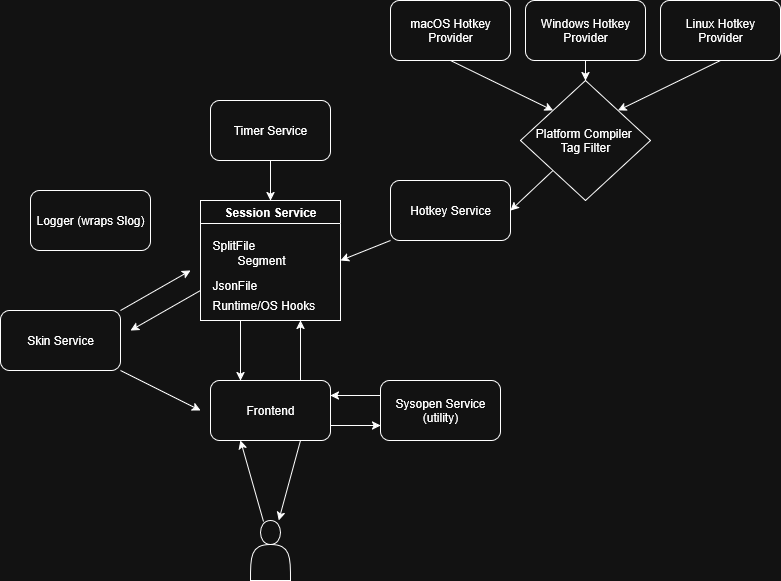
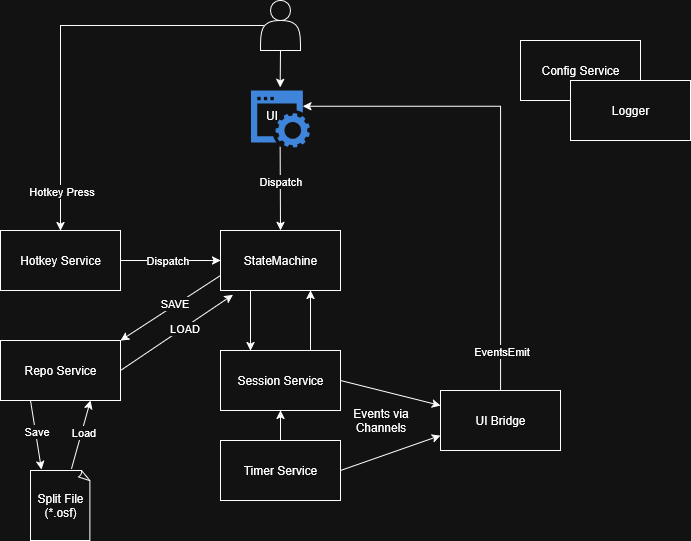
Updated documentation and architecture diagrams (#57)

diff --git a/docs/architecture.md b/docs/architecture.md
@@ -1,161 +1,112 @@
 # Architecture
 
-[Common Terms](#common-terms) - [Frontend](#frontend-react) - [Session Service](#session-service) - [Hotkey System](#hotkey-serviceproviders) - [Timer](#timer)
+[Common Terms](#common-terms) • [Frontend (React)](#frontend-react) • [Session Service](#session-service) • [Hotkey System](#hotkey-system) • [Timer](#timer)
 
 ---
 
-<img width="500" src="images/osa.png" alt="architecture" />
+<img width="500" src="images/osa.png" alt="architecture diagram" />
 
 ---
 
-### Common Terms
-* Session
-  * Primary user interface with underlying system
-  * Manages user input via exported Go functions in SessionService
-  * Keep up with the loaded split file, timer, and hotkey bindings
-  * Contains:
-    * Loaded split file
-    * Current Segment
-    * Timer Service
-    * Hotkey Service
-* Split File
-  * Primary data store for a user to store per-game/category data
-  * Saved as JSON (with extension *.osf)
-  * Contains:
-    * Game Name
-    * Game Category
-    * Number of Attempts
-    * List of Segments
-* Segment
-  * A part of a run that comprises a speedrun.
-  * Contains:
-    * ID 
-    * Segment Name (e.g. "Level 1")
-    * Segment Best Time
-    * Segment Average Time
+## Concepts
 
-#### Payloads
-All of these have "payloads" which are just exported versions that are sent to the
-frontend/filesystem and are generated with the `.getPayload()` method of the given struct.
+### State Machine
+- Manages the overall state of the program.  Defined in `statemachine` package, along with specific states
+- Exposes the `Dispatch` method receiver which is the primary way the frontend communicates to the backend
+  - `Dispatch` takes a `Command` and a `Payload`. `Payload` can be null, and the contents depends on the command and current state
 
-If you need to send or retrieve data from the frontend, you'll do it via these Payloads, never the actual struct internals themselves,
-they are not exported and therefore unavailable to the frontend.
+### Session
+- Manages:
+  - Loaded split file
+  - Current segment
+  - Timer service
+  - Hotkey service
+  - Has a sub-state machine that tracks the status of a run (Idle, Running, Paused, Finished)
 
-For example, if my frontend wants to load and edit a split file, it'll call the `LoadSplitFile`
-typescript method generated by Wails. Go will then load the splitfile, create a payload representing it with .getPayload(),
-and then send that payload to the typescript system.
+### DTO/Domain
+- Domain models are defined in the `session` package and is what the application works against
+- `dto` package is used to define the "on-disk" shape of the domain models with serializable data types
+  - `dto` types are used to send data both to the frontend, and to the repository for file storage
+- `repo/adapters` is used to translate between domain models and dto models
+- `repo` provides the actual reading and writing of bytes to and from `dto` models
 
-Once edits are made to the payload, it will send it back via the `UpdateSplitFile` typescript method
-with the modified payload as the parameter.  The Go backend will then take that payload, read it, and apply
-changes to its underlying internally loaded split file.  The internals are never directly manipulated by
-typescript, they are not exported members of the structs.
+### UI Bridge
+- `bridge` package listens for updates from the session service and timer service, and communicates them to
+the frontend via EventsEmit
 
-The method binding from Go to Typescript is covered below.
+## Frontend (React)
+- A standard **React + TypeScript** app, styled via CSS skins.
+- Communicates with the backend via the `Dispatch` bound method provided by the state machine
+- **Event-based communication**
+  - Backend emits events via `runtime.EventsEmit`.
+  - Frontend subscribes with `EventsOn`, which returns an unsubscribe function.
+    - `state:enter` sent by the statemachine to inform App.tsx of state changes along with any data needed by the frontend for that state
+    - `session:update` sent by the session service to inform the frontend of relevant run and state data.
+      - notably it's sent when the user finishes a segment and executes Split() to inform the split list that a segment is complete
+    - `timer:update` sent by the timer service to provide multiple frontend components with the current run time 
 
-### Frontend (React)
-Users interact with the frontend React system.  This works essentially like any other React application with tsx/ts files powering it.
-If you know how to write a React application, the code is exactly the same.
+## Data Management and Models
+### Split File (`*.osf`)
+- The **main data store** for a run.
+- JSON format, versioned for stability.
+- Contains:
+  - Game name
+  - Category
+  - Attempt count
+  - List of segments
+  - Segment statistics (PB, golds, averages, sum-of-bests)
+  - Collection of runs
 
-Communication with the backend should always flow through the Session Service unless there is a compelling reason to bypass it.  This single source
-I/O between frontend and backend should remain as simple as possible, hiding as much complexity as possible in the backend services.
+### Segment
+- A single part of a run (e.g. `"Level 1"`).
+- Contains:
+  - Unique ID
+  - Name
+  - Best time (gold)
+  - Average time
 
-Communication with the session service can be done imperatively via Javascript bindings, or event based via the `EventsOn` API generated by Wails.
-Wails will generate a Javascript function for every Exported (public, starts with capital letter) Go function in any struct passed into the 
-`Options.App -> Bind` member slice passed into Wails.Run in `main.go`; it will also generate any TypeScript types needed to call the methods 
-it generates in frontend/Wails/go/models.ts.  This method will return a Promise<Go Return Type>, so await it or chain it as needed.    
+### Split
+- Information about a completed Segment
+- Contains:
+  - Unique ID
+  - Time specified segment was completed in
+  - Cumulative time for run at time of split
 
-#### Binding Example
-```go
+### Run
+- Collection of splits
+---
 
-// main.go
-type Test struct {
-  ctx context.Context
-}
-func (t *Test) HelloWorld() (string, error) { return "Hello World!", nil }
-func (t *Test) startup(ctx context.Context) {
-  // If your binding needs to work with Wails platform (e.g. Open a Save File Dialog)
-  // you need to have a startup method that takes a context.Context, and call it in the OnStartup
-  // of options.App below.  This test wouldn't need it, but I'll put it here for completeness sake
-  t.ctx = ctx
-}
 
-// Creating the test struct and putting it bind will cause Wails to generate a typescript function HelloWorld that returns Promise<string>
-// if the second return is an error type and is not null, the Promise will fail and you can catch it with .catch() on the javascript side
-t := &Test{}
-err := wails.Run(&options.App{
-    OnStartup: func(ctx context.Context) {
-        t.startup(ctx)
-    },
-    Bind: []interface{}{
-        t
-    },
-})
-
-```
-```typescript
-// frontend/src/test.ts
-import { HelloWorld } from "../wailsjs/go/main/test";
-
-export function Test() {
-  useEffect(() => {
-    (async() => {
-      await HelloWorld().then(s => console.log(s)).catch(e=> console.log(e));
-    })
-  })
-}
-```
-#### Event based communication
-The Go backend can also call runtime.EventsEmit to send events to the frontend over a websocket.  You subscribe to these events with the EventsOn method
-provided by Wails.  EventsOn returns a function that unsubscribes to the event.
-
-#### Event Example
-```go
-func HelloWorldEvent(ctx context.Context) {
-  // "session.helloworld" is arbitrary, but <module>:<event> seems to be a standard practice.
-  // The second argument will be serialized to JSON and sent over the websocket.
-  // SessionService has a helper method, emitEvent that you should use that wraps platform.EventsEmit.  This is for testing purposes:
-  // the ctx passed to Events.Emit must be the one that comes from the App.Startup callback back in main.
-  // emitEvent no-ops if the ctx is invalid, allowing unit testing.  I'll show both here for completeness.
-  runtime.EventsEmit(ctx, "session:helloworld", "Hello World!")
-  emitEvent("session:helloworld", "Hello World!") // no ctx to emitEvent, it'll get it from the SessionService struct
-}
-```
-```typescript
-import { EventsOn } from "../wailsjs/platform";
-
-export function HelloWorlder() {
-  useEffect(() => {
-    // EventsOn returns the function that unsubscribes, useEffect's return is a function that is run on cleanup/dismount, so this is
-    // a convenient patterm
-    return EventsOn("session:helloworld", (val: string) => {
-      console.log(val)
-    });
-  })
-}
-```
-
-### Notes
-* State should be used sparingly on the frontend, and should be used for component rendering
-or data purposes.  The Go backend should always be the source of truth for the state of the application, fetch it
-with bound functions, and subscribe to updates with `EventsOn`.
+## State Management
+- Use React state only for **UI rendering**.
+- Application state (timer, segments, attempts) lives in Go.
+- Subscribe to state changes via events.
 
 ---
-### Session Service
-The session service is the primary interface for the frontend to communicate and manipulate the backend systems.
-Everything the user can do (Load or edit a split file, subscribe to Timer updates, Split a segment, etc) is represented as an
-exported Go method with the SessionService as the receiver.
+
+## Session Service
+- Responsibilities:
+  - Start/pause/reset/split timer
+  - Emit events to bridge for delivery to frontend (timer ticks, splits, file changes)
 
 ---
-### Hotkey Service/Providers
-The Hotkey service is the interface that gets key presses from a Hotkey provider, and then calls public methods on the
-Session Service based on what was pressed.  For instance, by default pressing `Space` will call the `Split()` method on the Session Service
-which marks the time completed for the current segment, then increments to the next.
 
-Hotkey providers are OS based as they need functions to the underlying Operating System API's to function properly,
-and need build tags to prevent them from being compiled on inappropriate platforms.
+## Hotkey System
+
+- **Hotkey Service**:
+  - Receives keypresses from an OS-specific provider.
+  - Maps hotkeys to `statemachine.Dispatch` actions (e.g., `Space` → `SPLIT`).
+
+- **Providers**:
+  - OS-specific implementations (Windows, Linux, macOS).
+  - Use build tags to compile only for supported platforms.
+  - Example: Windows uses a low-level keyboard hook (`user32.dll`).
 
 ---
-### Timer
-The Timer Service is basically just a stopwatch.  It uses Go's monotonic clock to generate startTime-currentTime diffs on a Ticker callback
-to get a current duration.  It also has some methods to handle serialization from `string` <-> `time.Duration`.  Generally speaking in Typescript
-you'll be working in strings,Go will serialize back and forth as needed, and work internally in `time.Duraion`.  Centisecond precision.
+
+## Timer
+
+- A **monotonic stopwatch** implemented in Go.
+- Uses a ticker to calculate `time.Duration` since `startTime`.
+- Precision: centiseconds.
+- Publishes tick events for live updates.

diff --git a/README.md b/README.md
@@ -23,7 +23,7 @@
 - 🕒 **Fast, readable timer** built for speedrunning.
 - 🎨 **Fully skinnable UI** — drop CSS-based skins (tokens + components + images) into a folder and switch at runtime.
 - 🎮 **Global hotkeys** (Windows first; cross-platform planned).
-- 🔎 **Speedrun.com integration** (planned) to search games, categories, and fetch art.
+- 🔎 **Speedrun.com integration** to search games, categories, and fetch art.
 - 🧰 **Modern stack**: Go + React/TypeScript via Wails.
 
 > Status: early development/alpha. Expect rapid change and frequent nightlies.
@@ -46,7 +46,7 @@
 ### Run the app
 1. Download a nightly for your OS (or build from source).
 2. Unzip and run the binary. On macOS, you may need to right-click → Open the first time.
-3. From the app, right click and select `Edit Splits` to create a new split file.
+3. Click "Create Split File" to get started.
 
 ### Create your first splits (basic flow)
 - Create a new split file (Game + Category).
@@ -59,8 +59,8 @@
 
 ## Features (current & roadmap)
 - **Timer**: HH:MM:SS.cc display with centiseconds; formatting adapts to hours/minutes.
-- **Skins**: theme tokens + component styles + images; per-skin folder with live switching.
-- **Split editor**: add/rename/reorder segments; total attempts.
+- **Skins**: theme tokens + component styles + images; per-skin folder with live switching (coming soon).
+- **Split editor**: add/rename/remove; total attempts.
 - **Hotkeys**: Windows global hooks implemented; cross-platform planned.
 - **Data**: simple JSON split files (`.osf`) for portability.
 - **Integrations**: Speedrun.com lookup for game/category art (partially implemented).

diff --git a/CONTRIBUTING.md b/CONTRIBUTING.md
@@ -98,11 +98,11 @@ Include a screenshot/GIF when submitting a skin PR. 🎨
    `chore(ci): add nightly workflow`
 3. **Run tests locally**: `task test`
 4. **Run lint locally** `task lint`
-4. **Open a Pull Request**:
+5. **Open a Pull Request**:
   - Fill out the PR template
   - Add screenshots/GIFs for UI changes
   - Link issues with `Fixes #123` when applicable
-5. **Address review** feedback; we squash or rebase as needed.
+6. **Address review** feedback; we squash or rebase as needed.
 
 For larger features, open an issue to discuss approach before coding.
 
@@ -153,4 +153,4 @@ By contributing, you agree that your contributions are licensed under the **MIT 
 
 ## Thank You
 
-Your time and ideas make OpenSplit better for everyone. If you get stuck or want guidance on where to start, open a Discussion or issue.
+Your time and ideas make OpenSplit better for everyone. If you get stuck or want guidance on where to start, open a Discussion or issue, or find us on Discord.
